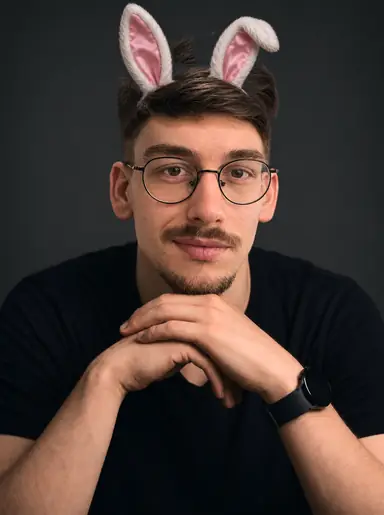
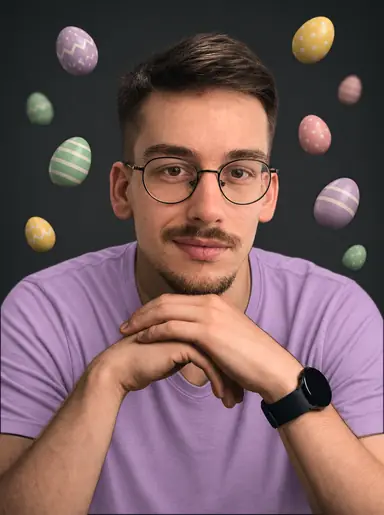
feat(pascoa): portrait in a lilac t-shirt with painted eggs behind
The owner turned down the bunny ears (18/11/2026) and picked this option:
a soft lilac t-shirt and pastel painted eggs floating in the dark
background, each pasted from a Codex generation onto today's photo, face
and hands untouched. Same folder (the first version never shipped); spec,
plan and asset notes updated.

diff --git a/docs/redesign/assets.md b/docs/redesign/assets.md
@@ -122,4 +122,4 @@ As imagens próprias do site não passam mais pelo `/_next/image`, que a Cloudfl
 - **Para gerar:** use o sharp que vem com o Next, por exemplo `node -e "const s=require('./node_modules/.pnpm/sharp@<versão>/node_modules/sharp');for(const w of [384,640,750,828,1080])s('public/photo.webp').resize({width:w}).webp({quality:72,effort:6}).toFile('public/redesign/portrait/v2/photo-'+w+'.webp')"`.
 
 - **Natal:** `public/redesign/portrait/natal-v1/` tem as mesmas larguras do retrato, com gorro de Papai Noel. A foto é a de hoje com só o gorro colado por cima (o gorro veio de uma geração do Codex; rosto e mãos são os originais), aprovada pelo dono em 17/11/2026. Mestre e script da colagem: `~/Projetos/pessoal/fotos/2026-11-perfil/geradas/natal/natal-topo-composto-v1.png` e `scripts/compor-gorro.py`. Ela só aparece com `data-season="natal"` (`NATAL_PORTRAIT_IMAGE`, regra de cache própria no `next.config.ts`).
-- **Épocas de 2027 (rodada de 17–18/11/2026):** cada época tem a sua pasta `public/redesign/portrait/<id>-v1/`, nas mesmas larguras, com a foto de hoje e só a peça da época colada por cima (camiseta branca no Réveillon, serpentinas e confete no Carnaval, orelhas de coelho na Páscoa, chapéu de palha e camisa xadrez na Festa Junina, capa de vampiro no Halloween). Cada peça veio de uma geração do Codex que recebeu só a foto-base (`scripts/codex-editar-base.sh`); a colagem é `scripts/compor-epoca.py <modo>` (rosto e mãos sempre da base; a gerada é alinhada à base por ECC quando o Codex muda o enquadramento). Mestres em `~/Projetos/pessoal/fotos/2026-11-perfil/geradas/epocas/compostas/`. As pastas saem de `SEASON_PORTRAIT_DIRS` em `portrait-image.ts`, que também monta as regras de cache.
+- **Épocas de 2027 (rodada de 17–18/11/2026):** cada época tem a sua pasta `public/redesign/portrait/<id>-v1/`, nas mesmas larguras, com a foto de hoje e só a peça da época colada por cima (camiseta branca no Réveillon, serpentinas e confete no Carnaval, camiseta lilás e ovos pintados no fundo na Páscoa (a primeira versão, com orelhas de coelho, o dono recusou em 18/11/2026), chapéu de palha e camisa xadrez na Festa Junina, capa de vampiro no Halloween). Cada peça veio de uma geração do Codex que recebeu só a foto-base (`scripts/codex-editar-base.sh`); a colagem é `scripts/compor-epoca.py <modo>` (rosto e mãos sempre da base; a gerada é alinhada à base por ECC quando o Codex muda o enquadramento). Mestres em `~/Projetos/pessoal/fotos/2026-11-perfil/geradas/epocas/compostas/` (na Páscoa, `pascoa-lilas-ovos-v1.png`, com os modos `lilas` e `ovos`). As pastas saem de `SEASON_PORTRAIT_DIRS` em `portrait-image.ts`, que também monta as regras de cache.

diff --git a/docs/superpowers/plans/2026-11-18-season-pascoa.md b/docs/superpowers/plans/2026-11-18-season-pascoa.md
@@ -2,7 +2,7 @@
 
 > **For agentic workers:** REQUIRED SUB-SKILL: Use superpowers:executing-plans to implement this plan task-by-task. Steps use checkbox (`- [ ]`) syntax for tracking.
 
-**Goal:** The Easter season: painted-egg name, a hopping bunny, the bunny-ears portrait, a countdown and an egg hunt that ends in a chocolate egg.
+**Goal:** The Easter season: painted-egg name, a hopping bunny, the portrait in a lilac t-shirt with painted eggs behind, a countdown and an egg hunt that ends in a chocolate egg.
 
 **Architecture:** As Réveillon and Carnaval. The hidden hunt leaves `natal/` for `seasons/shared/` (storage, hook and slot portals), so Christmas, Easter and Halloween share it; Christmas keeps its storage key and behaviour.
 

diff --git a/docs/superpowers/specs/2026-11-18-seasons-2027-design.md b/docs/superpowers/specs/2026-11-18-seasons-2027-design.md
@@ -135,7 +135,8 @@ Novas:
   a aba escondida.
 - **Nome:** as letras ganham pintura de ovo (listras, bolinhas, zigue-zague) em pastel,
   num degradê que mantém o contraste. Clicar troca a pintura.
-- **Foto:** tiara de orelhas de coelho.
+- **Foto:** camiseta lilás e ovos pintados em tons pastel no fundo (escolha do dono em
+  18/11/2026; a tiara de orelhas de coelho foi recusada).
 - **Contagem:** "Faltam N dias para a Páscoa"; no domingo, "Feliz Páscoa".
 - **Brincadeira: caça aos ovos.** 5 ovos pintados escondidos nos mesmos 5 pontos dos
   presentes do Natal. Achados os 5, um ovo de chocolate grande abre com o cartão de Feliz
